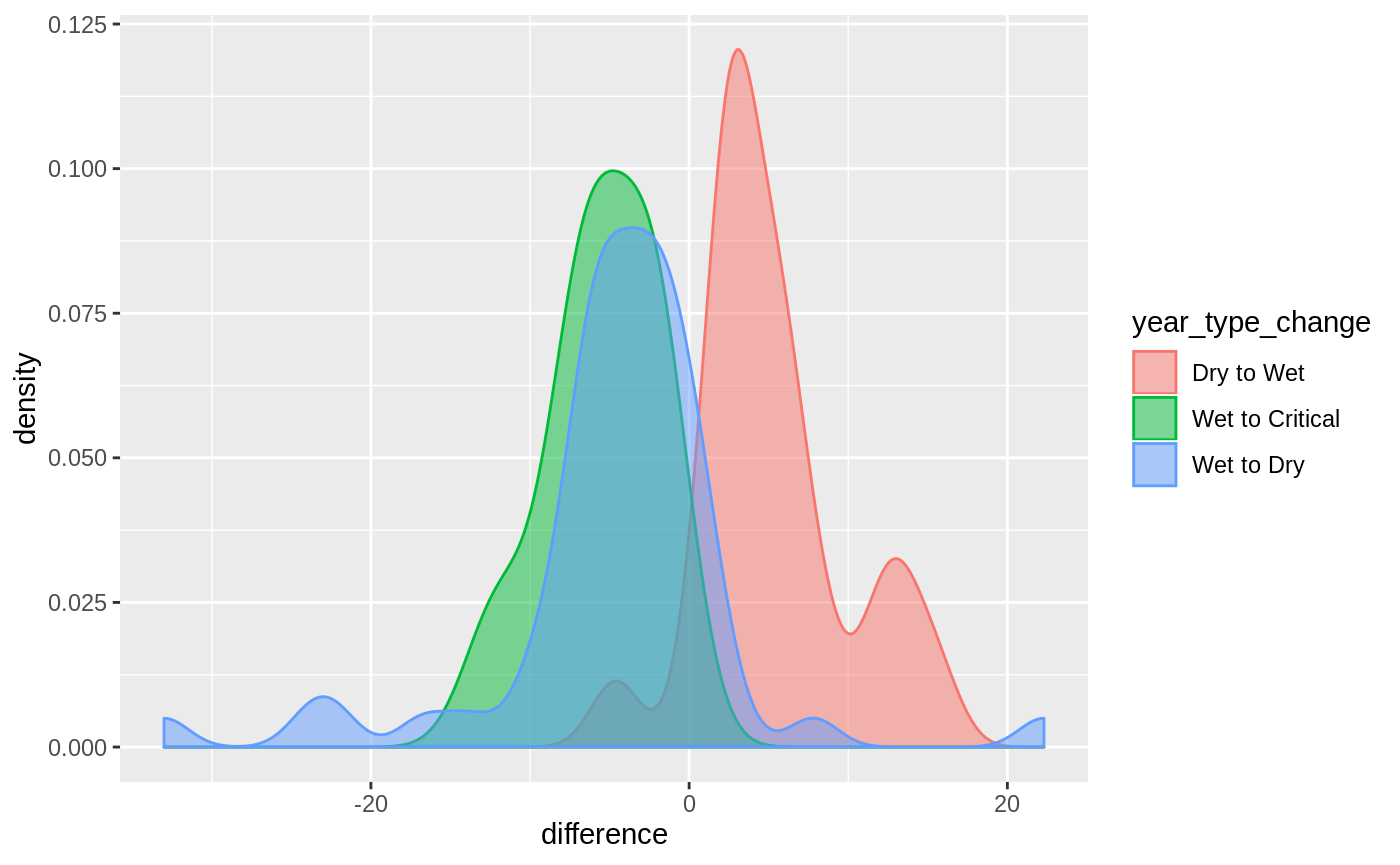
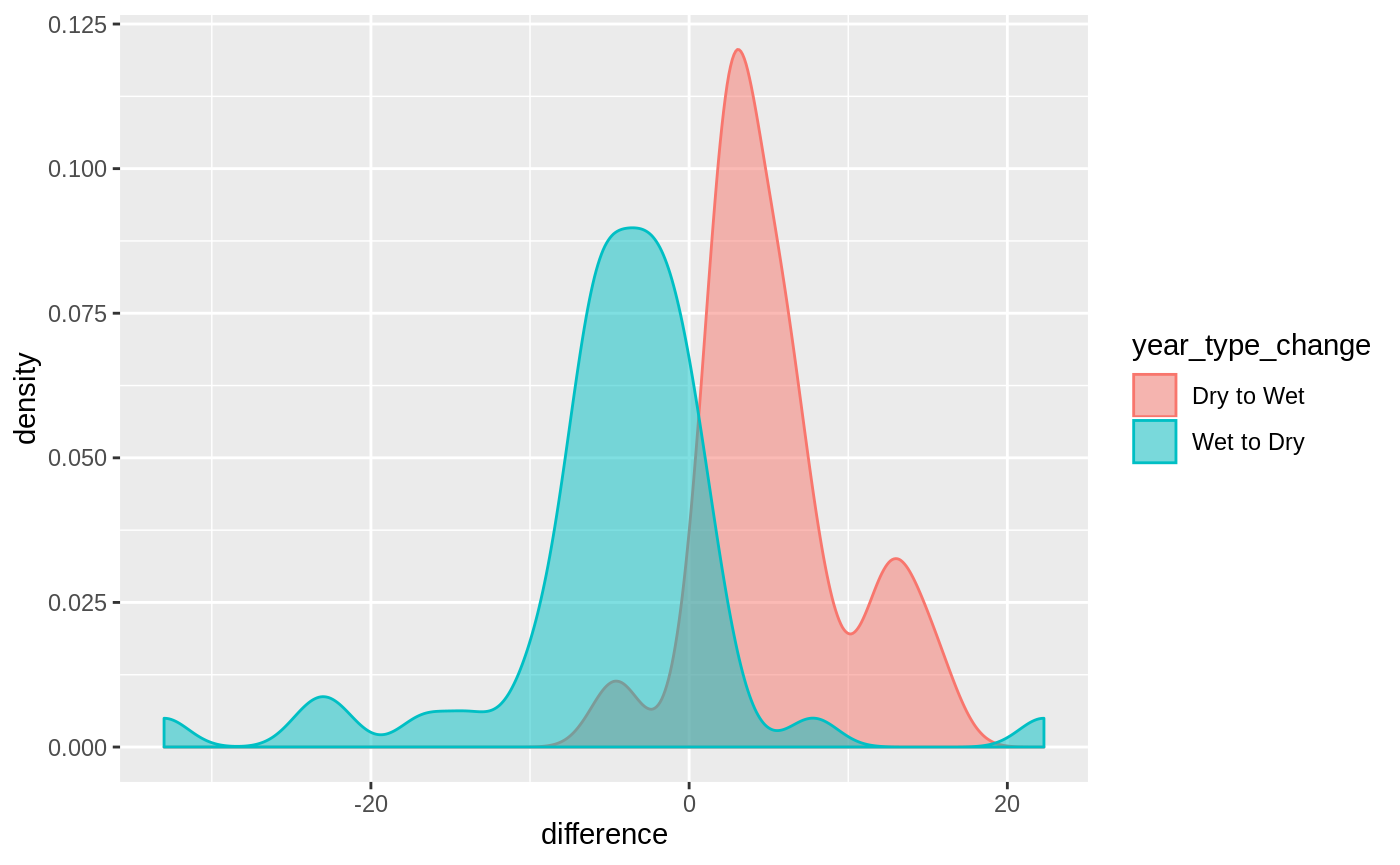
add a data section to the adobe model article

Changed region(s): [[0.0921, 0.1873, 0.645, 0.874], [0.7986, 0.3434, 0.9829, 0.5618], [0.6757, 0.8116, 0.7679, 0.874]]

diff --git a/docs/articles/groundwater-trends.html b/docs/articles/groundwater-trends.html
@@ -54,6 +54,9 @@
   </a>
   <ul class="dropdown-menu" role="menu">
 <li>
+      <a href="../articles/adobe-streamflow-model.html">Adobe Streamflow Model</a>
+    </li>
+    <li>
       <a href="../articles/groundwater-trends.html">Groundwater Trends</a>
     </li>
   </ul>
@@ -111,8 +114,8 @@
 <a class="sourceLine" id="cb2-11" data-line-number="11"><span class="st">  </span><span class="kw"><a href="https://rdrr.io/pkg/leaflet/man/leaflet.html">leaflet</a></span>() <span class="op">%&gt;%</span><span class="st"> </span></a>
 <a class="sourceLine" id="cb2-12" data-line-number="12"><span class="st">  </span><span class="kw"><a href="https://rdrr.io/pkg/leaflet/man/map-layers.html">addTiles</a></span>() <span class="op">%&gt;%</span><span class="st"> </span></a>
 <a class="sourceLine" id="cb2-13" data-line-number="13"><span class="st">  </span><span class="kw"><a href="https://rdrr.io/pkg/leaflet/man/map-layers.html">addCircleMarkers</a></span>() </a></code></pre></div>
-<div id="htmlwidget-73610c6c86a48ed30255" style="width:700px;height:432.632880098888px;" class="leaflet html-widget"></div>
-<script type="application/json" data-for="htmlwidget-73610c6c86a48ed30255">{"x":{"options":{"crs":{"crsClass":"L.CRS.EPSG3857","code":null,"proj4def":null,"projectedBounds":null,"options":{}}},"calls":[{"method":"addTiles","args":["//{s}.tile.openstreetmap.org/{z}/{x}/{y}.png",null,null,{"minZoom":0,"maxZoom":18,"tileSize":256,"subdomains":"abc","errorTileUrl":"","tms":false,"noWrap":false,"zoomOffset":0,"zoomReverse":false,"opacity":1,"zIndex":1,"detectRetina":false,"attribution":"&copy; <a href=\"http://openstreetmap.org\">OpenStreetMap<\/a> contributors, <a href=\"http://creativecommons.org/licenses/by-sa/2.0/\">CC-BY-SA<\/a>"}]},{"method":"addCircleMarkers","args":[[38.96222,38.971933,38.987505,38.9884,38.993,38.994647,38.994679,38.997183,38.997506,39.00357,39.00404,39.0044,39.007004,39.005291,39.007381,39.009652,39.01281,38.94378,38.958677,38.96434,38.9766,39.018588,39.020175],[-122.867223,-122.895905,-122.866551,-122.8936,-122.8687,-122.894686,-122.82226,-122.841335,-122.877074,-122.84271,-122.848964,-122.8434,-122.839639,-122.838267,-122.822292,-122.838395,-122.861743,-122.861025,-122.854461,-122.851532,-122.82878,-122.881273,-122.850014],10,null,null,{"interactive":true,"className":"","stroke":true,"color":"#03F","weight":5,"opacity":0.5,"fill":true,"fillColor":"#03F","fillOpacity":0.2},null,null,null,null,null,{"interactive":false,"permanent":false,"direction":"auto","opacity":1,"offset":[0,0],"textsize":"10px","textOnly":false,"className":"","sticky":true},null]}],"limits":{"lat":[38.94378,39.020175],"lng":[-122.895905,-122.82226]}},"evals":[],"jsHooks":[]}</script>
+<div id="htmlwidget-b8a9dd0e010e0fd9338a" style="width:700px;height:432.632880098888px;" class="leaflet html-widget"></div>
+<script type="application/json" data-for="htmlwidget-b8a9dd0e010e0fd9338a">{"x":{"options":{"crs":{"crsClass":"L.CRS.EPSG3857","code":null,"proj4def":null,"projectedBounds":null,"options":{}}},"calls":[{"method":"addTiles","args":["//{s}.tile.openstreetmap.org/{z}/{x}/{y}.png",null,null,{"minZoom":0,"maxZoom":18,"tileSize":256,"subdomains":"abc","errorTileUrl":"","tms":false,"noWrap":false,"zoomOffset":0,"zoomReverse":false,"opacity":1,"zIndex":1,"detectRetina":false,"attribution":"&copy; <a href=\"http://openstreetmap.org\">OpenStreetMap<\/a> contributors, <a href=\"http://creativecommons.org/licenses/by-sa/2.0/\">CC-BY-SA<\/a>"}]},{"method":"addCircleMarkers","args":[[38.96222,38.971933,38.987505,38.9884,38.993,38.994647,38.994679,38.997183,38.997506,39.00357,39.00404,39.0044,39.007004,39.005291,39.007381,39.009652,39.01281,38.94378,38.958677,38.96434,38.9766,39.018588,39.020175],[-122.867223,-122.895905,-122.866551,-122.8936,-122.8687,-122.894686,-122.82226,-122.841335,-122.877074,-122.84271,-122.848964,-122.8434,-122.839639,-122.838267,-122.822292,-122.838395,-122.861743,-122.861025,-122.854461,-122.851532,-122.82878,-122.881273,-122.850014],10,null,null,{"interactive":true,"className":"","stroke":true,"color":"#03F","weight":5,"opacity":0.5,"fill":true,"fillColor":"#03F","fillOpacity":0.2},null,null,null,null,null,{"interactive":false,"permanent":false,"direction":"auto","opacity":1,"offset":[0,0],"textsize":"10px","textOnly":false,"className":"","sticky":true},null]}],"limits":{"lat":[38.94378,39.020175],"lng":[-122.895905,-122.82226]}},"evals":[],"jsHooks":[]}</script>
 </div>
 <div id="elevation-differences" class="section level2">
 <h2 class="hasAnchor">
@@ -148,8 +151,8 @@
 <a class="sourceLine" id="cb4-12" data-line-number="12">                   <span class="dt">color=</span><span class="st">"#666666"</span>, <span class="dt">weight =</span> <span class="dv">2</span>, <span class="dt">fillOpacity =</span> <span class="dv">1</span>, </a>
 <a class="sourceLine" id="cb4-13" data-line-number="13">                   <span class="dt">popup =</span> <span class="op">~</span><span class="kw"><a href="https://rdrr.io/r/base/paste.html">paste0</a></span>(<span class="st">"Elevation Change: "</span>, <span class="kw"><a href="https://rdrr.io/r/base/Round.html">round</a></span>(difference, <span class="dv">1</span>))) <span class="op">%&gt;%</span><span class="st"> </span></a>
 <a class="sourceLine" id="cb4-14" data-line-number="14"><span class="st">  </span><span class="kw"><a href="https://rdrr.io/pkg/leaflet/man/addLegend.html">addLegend</a></span>(<span class="dt">values =</span> <span class="op">~</span>difference, <span class="dt">pal=</span>difference_<span class="dv">2008</span>_<span class="dv">2018</span>_pal)</a></code></pre></div>
-<div id="htmlwidget-5156b368bef5c72d468d" style="width:700px;height:432.632880098888px;" class="leaflet html-widget"></div>
-<script type="application/json" data-for="htmlwidget-5156b368bef5c72d468d">{"x":{"options":{"crs":{"crsClass":"L.CRS.EPSG3857","code":null,"proj4def":null,"projectedBounds":null,"options":{}}},"calls":[{"method":"addTiles","args":["//{s}.tile.openstreetmap.org/{z}/{x}/{y}.png",null,null,{"minZoom":0,"maxZoom":18,"tileSize":256,"subdomains":"abc","errorTileUrl":"","tms":false,"noWrap":false,"zoomOffset":0,"zoomReverse":false,"opacity":1,"zIndex":1,"detectRetina":false,"attribution":"&copy; <a href=\"http://openstreetmap.org\">OpenStreetMap<\/a> contributors, <a href=\"http://creativecommons.org/licenses/by-sa/2.0/\">CC-BY-SA<\/a>"}]},{"method":"addCircleMarkers","args":[[38.94378,38.958677,38.96434,38.9766,38.987505,38.9884,38.993,38.994647,38.994679,38.997183,38.997506,39.00357,39.00404,39.0044,39.007004,39.005291,39.007381,39.009652,39.01281,39.018588,39.020175],[-122.861025,-122.854461,-122.851532,-122.82878,-122.866551,-122.8936,-122.8687,-122.894686,-122.82226,-122.841335,-122.877074,-122.84271,-122.848964,-122.8434,-122.839639,-122.838267,-122.822292,-122.838395,-122.861743,-122.881273,-122.850014],10,null,null,{"interactive":true,"className":"","stroke":true,"color":"#666666","weight":2,"opacity":0.5,"fill":true,"fillColor":["#F8FCB4","#5E4FA2","#C6E89F","#E9F69C","#EAF79E","#FEDB87","#D0EC9D","#EFF9A6","#FECF7C","#C6E89F","#FFF6B0","#F1F9A8","#F3FAAC","#B4E1A2","#FFFCBA","#BFE5A0","#CFEB9D","#EFF9A6","#9E0142","#F9FDB5","#F7FCB3"],"fillOpacity":1},null,null,["Elevation Change: -2.6","Elevation Change: 20.1","Elevation Change: 3.5","Elevation Change: 0.3","Elevation Change: 0.1","Elevation Change: -9.3","Elevation Change: 2.7","Elevation Change: -0.9","Elevation Change: -10.5","Elevation Change: 3.5","Elevation Change: -5.4","Elevation Change: -1.2","Elevation Change: -1.6","Elevation Change: 4.9","Elevation Change: -4.5","Elevation Change: 4.1","Elevation Change: 2.8","Elevation Change: -0.9","Elevation Change: -28.1","Elevation Change: -2.8","Elevation Change: -2.5"],null,null,{"interactive":false,"permanent":false,"direction":"auto","opacity":1,"offset":[0,0],"textsize":"10px","textOnly":false,"className":"","sticky":true},null]},{"method":"addLegend","args":[{"colors":["#9E0142 , #C12D4A 6.43153526970982%, #EA5F48 16.8049792531123%, #FB9D58 27.1784232365148%, #FED481 37.5518672199173%, #FFF9B4 47.9253112033197%, #EAF79F 58.2987551867222%, #B3E0A3 68.6721991701247%, #6EC5A5 79.0456431535272%, #378BBC 89.4190871369297%, #5E50A3 99.7925311203321%, #5E4FA2 "],"labels":["-25","-20","-15","-10","-5","0","5","10","15","20"],"na_color":null,"na_label":"NA","opacity":0.5,"position":"topright","type":"numeric","title":"difference","extra":{"p_1":0.0643153526970982,"p_n":0.997925311203321},"layerId":null,"className":"info legend","group":null}]}],"limits":{"lat":[38.94378,39.020175],"lng":[-122.894686,-122.82226]}},"evals":[],"jsHooks":[]}</script><p>As is shown in the histogram most of values are close to zero, with two pontential outliers on both sides. To determine if these are in fact outliers we will need to explore differences across multiple decades. In the section below I do exactly this, iterate through all decades in the data compute differences at these wells.</p>
+<div id="htmlwidget-01eb0724cf143cfeeccb" style="width:700px;height:432.632880098888px;" class="leaflet html-widget"></div>
+<script type="application/json" data-for="htmlwidget-01eb0724cf143cfeeccb">{"x":{"options":{"crs":{"crsClass":"L.CRS.EPSG3857","code":null,"proj4def":null,"projectedBounds":null,"options":{}}},"calls":[{"method":"addTiles","args":["//{s}.tile.openstreetmap.org/{z}/{x}/{y}.png",null,null,{"minZoom":0,"maxZoom":18,"tileSize":256,"subdomains":"abc","errorTileUrl":"","tms":false,"noWrap":false,"zoomOffset":0,"zoomReverse":false,"opacity":1,"zIndex":1,"detectRetina":false,"attribution":"&copy; <a href=\"http://openstreetmap.org\">OpenStreetMap<\/a> contributors, <a href=\"http://creativecommons.org/licenses/by-sa/2.0/\">CC-BY-SA<\/a>"}]},{"method":"addCircleMarkers","args":[[38.94378,38.958677,38.96434,38.9766,38.987505,38.9884,38.993,38.994647,38.994679,38.997183,38.997506,39.00357,39.00404,39.0044,39.007004,39.005291,39.007381,39.009652,39.01281,39.018588,39.020175],[-122.861025,-122.854461,-122.851532,-122.82878,-122.866551,-122.8936,-122.8687,-122.894686,-122.82226,-122.841335,-122.877074,-122.84271,-122.848964,-122.8434,-122.839639,-122.838267,-122.822292,-122.838395,-122.861743,-122.881273,-122.850014],10,null,null,{"interactive":true,"className":"","stroke":true,"color":"#666666","weight":2,"opacity":0.5,"fill":true,"fillColor":["#F8FCB4","#5E4FA2","#C6E89F","#E9F69C","#EAF79E","#FEDB87","#D0EC9D","#EFF9A6","#FECF7C","#C6E89F","#FFF6B0","#F1F9A8","#F3FAAC","#B4E1A2","#FFFCBA","#BFE5A0","#CFEB9D","#EFF9A6","#9E0142","#F9FDB5","#F7FCB3"],"fillOpacity":1},null,null,["Elevation Change: -2.6","Elevation Change: 20.1","Elevation Change: 3.5","Elevation Change: 0.3","Elevation Change: 0.1","Elevation Change: -9.3","Elevation Change: 2.7","Elevation Change: -0.9","Elevation Change: -10.5","Elevation Change: 3.5","Elevation Change: -5.4","Elevation Change: -1.2","Elevation Change: -1.6","Elevation Change: 4.9","Elevation Change: -4.5","Elevation Change: 4.1","Elevation Change: 2.8","Elevation Change: -0.9","Elevation Change: -28.1","Elevation Change: -2.8","Elevation Change: -2.5"],null,null,{"interactive":false,"permanent":false,"direction":"auto","opacity":1,"offset":[0,0],"textsize":"10px","textOnly":false,"className":"","sticky":true},null]},{"method":"addLegend","args":[{"colors":["#9E0142 , #C12D4A 6.43153526970982%, #EA5F48 16.8049792531123%, #FB9D58 27.1784232365148%, #FED481 37.5518672199173%, #FFF9B4 47.9253112033197%, #EAF79F 58.2987551867222%, #B3E0A3 68.6721991701247%, #6EC5A5 79.0456431535272%, #378BBC 89.4190871369297%, #5E50A3 99.7925311203321%, #5E4FA2 "],"labels":["-25","-20","-15","-10","-5","0","5","10","15","20"],"na_color":null,"na_label":"NA","opacity":0.5,"position":"topright","type":"numeric","title":"difference","extra":{"p_1":0.0643153526970982,"p_n":0.997925311203321},"layerId":null,"className":"info legend","group":null}]}],"limits":{"lat":[38.94378,39.020175],"lng":[-122.894686,-122.82226]}},"evals":[],"jsHooks":[]}</script><p>As is shown in the histogram most of values are close to zero, with two pontential outliers on both sides. To determine if these are in fact outliers we will need to explore differences across multiple decades. In the section below I do exactly this, iterate through all decades in the data compute differences at these wells.</p>
 <div class="sourceCode" id="cb5"><pre class="sourceCode r"><code class="sourceCode r"><a class="sourceLine" id="cb5-1" data-line-number="1">decade_differences &lt;-<span class="st"> </span>purrr<span class="op">::</span><span class="kw"><a href="https://purrr.tidyverse.org/reference/map.html">map_df</a></span>(<span class="dv">1980</span><span class="op">:</span><span class="dv">2018</span>, <span class="cf">function</span>(y) {</a>
 <a class="sourceLine" id="cb5-2" data-line-number="2">  year1 &lt;-<span class="st"> </span>y <span class="op">-</span><span class="st"> </span><span class="dv">10</span></a>
 <a class="sourceLine" id="cb5-3" data-line-number="3">  year2 &lt;-<span class="st"> </span>y</a>
@@ -192,8 +195,8 @@
 <a class="sourceLine" id="cb7-18" data-line-number="18">                   <span class="dt">color =</span> <span class="st">"#666666"</span>, <span class="dt">weight =</span> <span class="dv">2</span>, </a>
 <a class="sourceLine" id="cb7-19" data-line-number="19">                   <span class="dt">popup =</span> <span class="op">~</span><span class="kw"><a href="https://rdrr.io/r/base/paste.html">paste0</a></span>(<span class="st">"Avg Difference: "</span>, <span class="kw"><a href="https://rdrr.io/r/base/Round.html">round</a></span>(avg_diff))) <span class="op">%&gt;%</span><span class="st"> </span></a>
 <a class="sourceLine" id="cb7-20" data-line-number="20"><span class="st">  </span><span class="kw"><a href="https://rdrr.io/pkg/leaflet/man/addLegend.html">addLegend</a></span>(<span class="dt">pal =</span> decade_differences_pal, <span class="dt">values =</span> <span class="op">~</span>avg_diff)</a></code></pre></div>
-<div id="htmlwidget-1711c859c47d7a71b485" style="width:700px;height:432.632880098888px;" class="leaflet html-widget"></div>
-<script type="application/json" data-for="htmlwidget-1711c859c47d7a71b485">{"x":{"options":{"crs":{"crsClass":"L.CRS.EPSG3857","code":null,"proj4def":null,"projectedBounds":null,"options":{}}},"calls":[{"method":"addTiles","args":["//{s}.tile.openstreetmap.org/{z}/{x}/{y}.png",null,null,{"minZoom":0,"maxZoom":18,"tileSize":256,"subdomains":"abc","errorTileUrl":"","tms":false,"noWrap":false,"zoomOffset":0,"zoomReverse":false,"opacity":1,"zIndex":1,"detectRetina":false,"attribution":"&copy; <a href=\"http://openstreetmap.org\">OpenStreetMap<\/a> contributors, <a href=\"http://creativecommons.org/licenses/by-sa/2.0/\">CC-BY-SA<\/a>"}]},{"method":"addCircleMarkers","args":[[38.94378,38.958677,38.96222,38.96434,38.971933,38.9766,38.987505,38.9884,38.993,38.994647,38.994679,38.997183,38.997506,39.00357,39.00404,39.0044,39.007004,39.005291,39.007381,39.009652,39.01281,39.018588,39.020175],[-122.861025,-122.854461,-122.867223,-122.851532,-122.895905,-122.82878,-122.866551,-122.8936,-122.8687,-122.894686,-122.82226,-122.841335,-122.877074,-122.84271,-122.848964,-122.8434,-122.839639,-122.838267,-122.822292,-122.838395,-122.861743,-122.881273,-122.850014],10,null,null,{"interactive":true,"className":"","stroke":true,"color":"#666666","weight":2,"opacity":0.5,"fill":true,"fillColor":["#B7E1A2","#FEE18D","#9E0142","#97D4A4","#D2ED9C","#FEE390","#5E4FA2","#F2FAAB","#5DB2AC","#97D4A4","#FEB668","#B6E1A2","#9ED8A4","#4FA0B4","#AADDA4","#4899B6","#F57345","#CAE99E","#FEC775","#FFFAB6","#F67948","#C4E79F","#F6FBB0"],"fillOpacity":1},null,null,["Avg Difference: 0","Avg Difference: -3","Avg Difference: -6","Avg Difference: 1","Avg Difference: 0","Avg Difference: -2","Avg Difference: 3","Avg Difference: -1","Avg Difference: 2","Avg Difference: 1","Avg Difference: -3","Avg Difference: 0","Avg Difference: 1","Avg Difference: 2","Avg Difference: 0","Avg Difference: 2","Avg Difference: -4","Avg Difference: 0","Avg Difference: -3","Avg Difference: -2","Avg Difference: -4","Avg Difference: 0","Avg Difference: -1"],null,null,{"interactive":false,"permanent":false,"direction":"auto","opacity":1,"offset":[0,0],"textsize":"10px","textOnly":false,"className":"","sticky":true},null]},{"method":"addLegend","args":[{"colors":["#9E0142 , #B62248 4.36315557514324%, #E4554A 14.7516212302462%, #F99052 25.1400868853491%, #FECA78 35.5285525404521%, #FFF2AA 45.917018195555%, #EFF9A6 56.305483850658%, #BFE5A0 66.6939495057609%, #7CCAA5 77.0824151608638%, #4596B7 87.4708808159668%, #595CA8 97.8593464710697%, #5E4FA2 "],"labels":["-6","-5","-4","-3","-2","-1","0","1","2","3"],"na_color":null,"na_label":"NA","opacity":0.5,"position":"topright","type":"numeric","title":"avg_diff","extra":{"p_1":0.0436315557514324,"p_n":0.978593464710697},"layerId":null,"className":"info legend","group":null}]}],"limits":{"lat":[38.94378,39.020175],"lng":[-122.895905,-122.82226]}},"evals":[],"jsHooks":[]}</script><p>We can explore if there is any trend in the data by plotting the these differences on a scatter plot.</p>
+<div id="htmlwidget-86e5d0c29d81e5ed3c05" style="width:700px;height:432.632880098888px;" class="leaflet html-widget"></div>
+<script type="application/json" data-for="htmlwidget-86e5d0c29d81e5ed3c05">{"x":{"options":{"crs":{"crsClass":"L.CRS.EPSG3857","code":null,"proj4def":null,"projectedBounds":null,"options":{}}},"calls":[{"method":"addTiles","args":["//{s}.tile.openstreetmap.org/{z}/{x}/{y}.png",null,null,{"minZoom":0,"maxZoom":18,"tileSize":256,"subdomains":"abc","errorTileUrl":"","tms":false,"noWrap":false,"zoomOffset":0,"zoomReverse":false,"opacity":1,"zIndex":1,"detectRetina":false,"attribution":"&copy; <a href=\"http://openstreetmap.org\">OpenStreetMap<\/a> contributors, <a href=\"http://creativecommons.org/licenses/by-sa/2.0/\">CC-BY-SA<\/a>"}]},{"method":"addCircleMarkers","args":[[38.94378,38.958677,38.96222,38.96434,38.971933,38.9766,38.987505,38.9884,38.993,38.994647,38.994679,38.997183,38.997506,39.00357,39.00404,39.0044,39.007004,39.005291,39.007381,39.009652,39.01281,39.018588,39.020175],[-122.861025,-122.854461,-122.867223,-122.851532,-122.895905,-122.82878,-122.866551,-122.8936,-122.8687,-122.894686,-122.82226,-122.841335,-122.877074,-122.84271,-122.848964,-122.8434,-122.839639,-122.838267,-122.822292,-122.838395,-122.861743,-122.881273,-122.850014],10,null,null,{"interactive":true,"className":"","stroke":true,"color":"#666666","weight":2,"opacity":0.5,"fill":true,"fillColor":["#B7E1A2","#FEE18D","#9E0142","#97D4A4","#D2ED9C","#FEE390","#5E4FA2","#F2FAAB","#5DB2AC","#97D4A4","#FEB668","#B6E1A2","#9ED8A4","#4FA0B4","#AADDA4","#4899B6","#F57345","#CAE99E","#FEC775","#FFFAB6","#F67948","#C4E79F","#F6FBB0"],"fillOpacity":1},null,null,["Avg Difference: 0","Avg Difference: -3","Avg Difference: -6","Avg Difference: 1","Avg Difference: 0","Avg Difference: -2","Avg Difference: 3","Avg Difference: -1","Avg Difference: 2","Avg Difference: 1","Avg Difference: -3","Avg Difference: 0","Avg Difference: 1","Avg Difference: 2","Avg Difference: 0","Avg Difference: 2","Avg Difference: -4","Avg Difference: 0","Avg Difference: -3","Avg Difference: -2","Avg Difference: -4","Avg Difference: 0","Avg Difference: -1"],null,null,{"interactive":false,"permanent":false,"direction":"auto","opacity":1,"offset":[0,0],"textsize":"10px","textOnly":false,"className":"","sticky":true},null]},{"method":"addLegend","args":[{"colors":["#9E0142 , #B62248 4.36315557514324%, #E4554A 14.7516212302462%, #F99052 25.1400868853491%, #FECA78 35.5285525404521%, #FFF2AA 45.917018195555%, #EFF9A6 56.305483850658%, #BFE5A0 66.6939495057609%, #7CCAA5 77.0824151608638%, #4596B7 87.4708808159668%, #595CA8 97.8593464710697%, #5E4FA2 "],"labels":["-6","-5","-4","-3","-2","-1","0","1","2","3"],"na_color":null,"na_label":"NA","opacity":0.5,"position":"topright","type":"numeric","title":"avg_diff","extra":{"p_1":0.0436315557514324,"p_n":0.978593464710697},"layerId":null,"className":"info legend","group":null}]}],"limits":{"lat":[38.94378,39.020175],"lng":[-122.895905,-122.82226]}},"evals":[],"jsHooks":[]}</script><p>We can explore if there is any trend in the data by plotting the these differences on a scatter plot.</p>
 <div class="sourceCode" id="cb8"><pre class="sourceCode r"><code class="sourceCode r"><a class="sourceLine" id="cb8-1" data-line-number="1">decade_differences <span class="op">%&gt;%</span><span class="st"> </span></a>
 <a class="sourceLine" id="cb8-2" data-line-number="2"><span class="st">  </span><span class="kw">ggplot</span>(<span class="kw">aes</span>(end_year, difference)) <span class="op">+</span><span class="st"> </span><span class="kw">geom_point</span>(<span class="dt">alpha=</span><span class="fl">0.5</span>) <span class="op">+</span><span class="st"> </span></a>
 <a class="sourceLine" id="cb8-3" data-line-number="3"><span class="st">  </span><span class="kw">geom_smooth</span>()</a></code></pre></div>
@@ -260,7 +263,7 @@
 <a class="sourceLine" id="cb13-2" data-line-number="2"><span class="st">  </span>waterYearType<span class="op">::</span>water_year_indices <span class="op">%&gt;%</span><span class="st"> </span></a>
 <a class="sourceLine" id="cb13-3" data-line-number="3"><span class="st">  </span><span class="kw"><a href="https://rdrr.io/r/stats/filter.html">filter</a></span>(location <span class="op">==</span><span class="st"> "Sacramento Valley"</span>) <span class="op">%&gt;%</span><span class="st"> </span><span class="kw">select</span>(<span class="dt">year =</span> WY, <span class="dt">type =</span> Yr_type)</a>
 <a class="sourceLine" id="cb13-4" data-line-number="4"></a>
-<a class="sourceLine" id="cb13-5" data-line-number="5">one_year_differences &lt;-<span class="st"> </span>purrr<span class="op">::</span><span class="kw"><a href="https://purrr.tidyverse.org/reference/map.html">map_df</a></span>(<span class="dv">1950</span><span class="op">:</span><span class="dv">2018</span>, <span class="cf">function</span>(y) {</a>
+<a class="sourceLine" id="cb13-5" data-line-number="5">one_year_differences &lt;-<span class="st"> </span>purrr<span class="op">::</span><span class="kw"><a href="https://purrr.tidyverse.org/reference/map.html">map_df</a></span>(<span class="dv">1948</span><span class="op">:</span><span class="dv">2018</span>, <span class="cf">function</span>(y) {</a>
 <a class="sourceLine" id="cb13-6" data-line-number="6">  <span class="co"># get the start and end years for the calcuation</span></a>
 <a class="sourceLine" id="cb13-7" data-line-number="7">  year1 &lt;-<span class="st"> </span>y <span class="op">-</span><span class="st"> </span><span class="dv">1</span></a>
 <a class="sourceLine" id="cb13-8" data-line-number="8">  year2 &lt;-<span class="st"> </span>y</a>
@@ -323,11 +326,28 @@
 <div id="distribution-of-elevation-changes-by-water-year-transitions" class="section level3">
 <h3 class="hasAnchor">
 <a href="#distribution-of-elevation-changes-by-water-year-transitions" class="anchor"></a>Distribution of Elevation Changes by Water Year Transitions</h3>
+<p>In this section I encode the <em>water year transition types</em>, that is I just keep track of the water year of the start year and the water year of the end year and add this as a column to the dataframe.</p>
+<p><strong>Dry to Wet and Wet to Dry Transitions</strong></p>
+<p>Here I focus on the Wet to Dry and Dry to Wet transitions.</p>
 <div class="sourceCode" id="cb17"><pre class="sourceCode r"><code class="sourceCode r"><a class="sourceLine" id="cb17-1" data-line-number="1">one_year_differences <span class="op">%&gt;%</span><span class="st"> </span></a>
-<a class="sourceLine" id="cb17-2" data-line-number="2"><span class="st">  </span><span class="kw"><a href="https://rdrr.io/r/stats/filter.html">filter</a></span>(year_type_change <span class="op">%in%</span><span class="st"> </span><span class="kw"><a href="https://rdrr.io/r/base/c.html">c</a></span>(<span class="st">"Wet to Dry"</span>, <span class="st">"Dry to Wet"</span>, </a>
-<a class="sourceLine" id="cb17-3" data-line-number="3">                                 <span class="st">"Wet to Critical"</span>)) <span class="op">%&gt;%</span><span class="st"> </span></a>
-<a class="sourceLine" id="cb17-4" data-line-number="4"><span class="st">  </span><span class="kw">ggplot</span>(<span class="kw">aes</span>(difference, <span class="dt">fill=</span>year_type_change, <span class="dt">color=</span>year_type_change)) <span class="op">+</span><span class="st"> </span><span class="kw">geom_density</span>(<span class="dt">alpha=</span><span class="fl">0.5</span>)</a></code></pre></div>
+<a class="sourceLine" id="cb17-2" data-line-number="2"><span class="st">  </span><span class="kw"><a href="https://rdrr.io/r/stats/filter.html">filter</a></span>(year_type_change <span class="op">%in%</span><span class="st"> </span><span class="kw"><a href="https://rdrr.io/r/base/c.html">c</a></span>(<span class="st">"Wet to Dry"</span>, <span class="st">"Dry to Wet"</span>)) <span class="op">%&gt;%</span><span class="st"> </span></a>
+<a class="sourceLine" id="cb17-3" data-line-number="3"><span class="st">  </span><span class="kw">ggplot</span>(<span class="kw">aes</span>(difference, <span class="dt">fill=</span>year_type_change, <span class="dt">color=</span>year_type_change)) <span class="op">+</span><span class="st"> </span><span class="kw">geom_density</span>(<span class="dt">alpha=</span><span class="fl">0.5</span>)</a></code></pre></div>
 <p><img src="groundwater-trends_files/figure-html/unnamed-chunk-17-1.png" width="700"></p>
+<p><strong>Critical to Wet and Wet to Critical Transitions</strong></p>
+<p>Here I focus on the Wet to Dry and Dry to Wet transitions.</p>
+<div class="sourceCode" id="cb18"><pre class="sourceCode r"><code class="sourceCode r"><a class="sourceLine" id="cb18-1" data-line-number="1">one_year_differences <span class="op">%&gt;%</span><span class="st"> </span></a>
+<a class="sourceLine" id="cb18-2" data-line-number="2"><span class="st">  </span><span class="kw"><a href="https://rdrr.io/r/stats/filter.html">filter</a></span>(year_type_change <span class="op">%in%</span><span class="st"> </span><span class="kw"><a href="https://rdrr.io/r/base/c.html">c</a></span>(<span class="st">"Wet to Critical"</span>, <span class="st">"Critical to Wet"</span>)) <span class="op">%&gt;%</span><span class="st"> </span></a>
+<a class="sourceLine" id="cb18-3" data-line-number="3"><span class="st">  </span><span class="kw">ggplot</span>(<span class="kw">aes</span>(difference, <span class="dt">fill=</span>year_type_change, <span class="dt">color=</span>year_type_change)) <span class="op">+</span><span class="st"> </span><span class="kw">geom_density</span>(<span class="dt">alpha=</span><span class="fl">0.5</span>)</a></code></pre></div>
+<p><img src="groundwater-trends_files/figure-html/unnamed-chunk-18-1.png" width="700"></p>
+</div>
+<div id="water-year-type-trends" class="section level3">
+<h3 class="hasAnchor">
+<a href="#water-year-type-trends" class="anchor"></a>Water Year Type Trends</h3>
+<p>Are there any trends in difference values by water year?</p>
+<div class="sourceCode" id="cb19"><pre class="sourceCode r"><code class="sourceCode r"><a class="sourceLine" id="cb19-1" data-line-number="1">one_year_differences <span class="op">%&gt;%</span><span class="st"> </span></a>
+<a class="sourceLine" id="cb19-2" data-line-number="2"><span class="st">  </span><span class="kw"><a href="https://rdrr.io/r/stats/filter.html">filter</a></span>(end_year_type <span class="op">==</span><span class="st"> "Critical"</span>) <span class="op">%&gt;%</span><span class="st"> </span></a>
+<a class="sourceLine" id="cb19-3" data-line-number="3"><span class="st">  </span><span class="kw">ggplot</span>(<span class="kw">aes</span>(end_year, difference)) <span class="op">+</span><span class="st"> </span><span class="kw">geom_point</span>()</a></code></pre></div>
+<p><img src="groundwater-trends_files/figure-html/unnamed-chunk-19-1.png" width="700"></p>
 </div>
 </div>
   </div>

diff --git a/docs/articles/adobe-streamflow-model.html b/docs/articles/adobe-streamflow-model.html
@@ -1,0 +1,204 @@
+<!DOCTYPE html>
+<!-- Generated by pkgdown: do not edit by hand --><html lang="en">
+<head>
+<meta http-equiv="Content-Type" content="text/html; charset=UTF-8">
+<meta charset="utf-8">
+<meta http-equiv="X-UA-Compatible" content="IE=edge">
+<meta name="viewport" content="width=device-width, initial-scale=1.0">
+<title>Adobe Streamflow Model • adobeCreekData</title>
+<!-- jquery --><script src="https://cdnjs.cloudflare.com/ajax/libs/jquery/3.3.1/jquery.min.js" integrity="sha256-FgpCb/KJQlLNfOu91ta32o/NMZxltwRo8QtmkMRdAu8=" crossorigin="anonymous"></script><!-- Bootstrap --><link rel="stylesheet" href="https://cdnjs.cloudflare.com/ajax/libs/twitter-bootstrap/3.3.7/css/bootstrap.min.css" integrity="sha256-916EbMg70RQy9LHiGkXzG8hSg9EdNy97GazNG/aiY1w=" crossorigin="anonymous">
+<script src="https://cdnjs.cloudflare.com/ajax/libs/twitter-bootstrap/3.3.7/js/bootstrap.min.js" integrity="sha256-U5ZEeKfGNOja007MMD3YBI0A3OSZOQbeG6z2f2Y0hu8=" crossorigin="anonymous"></script><!-- Font Awesome icons --><link rel="stylesheet" href="https://cdnjs.cloudflare.com/ajax/libs/font-awesome/5.7.1/css/all.min.css" integrity="sha256-nAmazAk6vS34Xqo0BSrTb+abbtFlgsFK7NKSi6o7Y78=" crossorigin="anonymous">
+<link rel="stylesheet" href="https://cdnjs.cloudflare.com/ajax/libs/font-awesome/5.7.1/css/v4-shims.min.css" integrity="sha256-6qHlizsOWFskGlwVOKuns+D1nB6ssZrHQrNj1wGplHc=" crossorigin="anonymous">
+<!-- clipboard.js --><script src="https://cdnjs.cloudflare.com/ajax/libs/clipboard.js/2.0.4/clipboard.min.js" integrity="sha256-FiZwavyI2V6+EXO1U+xzLG3IKldpiTFf3153ea9zikQ=" crossorigin="anonymous"></script><!-- headroom.js --><script src="https://cdnjs.cloudflare.com/ajax/libs/headroom/0.9.4/headroom.min.js" integrity="sha256-DJFC1kqIhelURkuza0AvYal5RxMtpzLjFhsnVIeuk+U=" crossorigin="anonymous"></script><script src="https://cdnjs.cloudflare.com/ajax/libs/headroom/0.9.4/jQuery.headroom.min.js" integrity="sha256-ZX/yNShbjqsohH1k95liqY9Gd8uOiE1S4vZc+9KQ1K4=" crossorigin="anonymous"></script><!-- pkgdown --><link href="../pkgdown.css" rel="stylesheet">
+<script src="../pkgdown.js"></script><meta property="og:title" content="Adobe Streamflow Model">
+<meta property="og:description" content="">
+<meta name="twitter:card" content="summary">
+<!-- mathjax --><script src="https://cdnjs.cloudflare.com/ajax/libs/mathjax/2.7.5/MathJax.js" integrity="sha256-nvJJv9wWKEm88qvoQl9ekL2J+k/RWIsaSScxxlsrv8k=" crossorigin="anonymous"></script><script src="https://cdnjs.cloudflare.com/ajax/libs/mathjax/2.7.5/config/TeX-AMS-MML_HTMLorMML.js" integrity="sha256-84DKXVJXs0/F8OTMzX4UR909+jtl4G7SPypPavF+GfA=" crossorigin="anonymous"></script><!--[if lt IE 9]>
+<script src="https://oss.maxcdn.com/html5shiv/3.7.3/html5shiv.min.js"></script>
+<script src="https://oss.maxcdn.com/respond/1.4.2/respond.min.js"></script>
+<![endif]-->
+</head>
+<body>
+    <div class="container template-article">
+      <header><div class="navbar navbar-default navbar-fixed-top" role="navigation">
+  <div class="container">
+    <div class="navbar-header">
+      <button type="button" class="navbar-toggle collapsed" data-toggle="collapse" data-target="#navbar" aria-expanded="false">
+        <span class="sr-only">Toggle navigation</span>
+        <span class="icon-bar"></span>
+        <span class="icon-bar"></span>
+        <span class="icon-bar"></span>
+      </button>
+      <span class="navbar-brand">
+        <a class="navbar-link" href="../index.html">adobeCreekData</a>
+        <span class="version label label-default" data-toggle="tooltip" data-placement="bottom" title="Released version">0.1.0</span>
+      </span>
+    </div>
+
+    <div id="navbar" class="navbar-collapse collapse">
+      <ul class="nav navbar-nav">
+<li>
+  <a href="../index.html">
+    <span class="fas fa fas fa-home fa-lg"></span>
+     
+  </a>
+</li>
+<li>
+  <a href="../reference/index.html">Reference</a>
+</li>
+<li class="dropdown">
+  <a href="#" class="dropdown-toggle" data-toggle="dropdown" role="button" aria-expanded="false">
+    Articles
+     
+    <span class="caret"></span>
+  </a>
+  <ul class="dropdown-menu" role="menu">
+<li>
+      <a href="../articles/adobe-streamflow-model.html">Adobe Streamflow Model</a>
+    </li>
+    <li>
+      <a href="../articles/groundwater-trends.html">Groundwater Trends</a>
+    </li>
+  </ul>
+</li>
+      </ul>
+<ul class="nav navbar-nav navbar-right"></ul>
+</div>
+<!--/.nav-collapse -->
+  </div>
+<!--/.container -->
+</div>
+<!--/.navbar -->
+
+      
+
+      </header><div class="row">
+  <div class="col-md-9 contents">
+    <div class="page-header toc-ignore">
+      <h1>Adobe Streamflow Model</h1>
+            
+      
+      
+      <div class="hidden name"><code>adobe-streamflow-model.Rmd</code></div>
+
+    </div>
+
+    
+    
+<div class="sourceCode" id="cb1"><pre class="sourceCode r"><code class="sourceCode r"><a class="sourceLine" id="cb1-1" data-line-number="1"><span class="kw"><a href="https://rdrr.io/r/base/library.html">library</a></span>(adobeCreekData)</a>
+<a class="sourceLine" id="cb1-2" data-line-number="2"><span class="kw"><a href="https://rdrr.io/r/base/library.html">library</a></span>(tidyverse)</a>
+<a class="sourceLine" id="cb1-3" data-line-number="3"><span class="co">#&gt; ── Attaching packages ─────────────────────────────────────────────────────── tidyverse 1.2.1 ──</span></a>
+<a class="sourceLine" id="cb1-4" data-line-number="4"><span class="co">#&gt; ✔ ggplot2 3.2.1     ✔ purrr   0.3.2</span></a>
+<a class="sourceLine" id="cb1-5" data-line-number="5"><span class="co">#&gt; ✔ tibble  2.1.3     ✔ dplyr   0.8.3</span></a>
+<a class="sourceLine" id="cb1-6" data-line-number="6"><span class="co">#&gt; ✔ tidyr   1.0.0     ✔ stringr 1.4.0</span></a>
+<a class="sourceLine" id="cb1-7" data-line-number="7"><span class="co">#&gt; ✔ readr   1.3.1     ✔ forcats 0.4.0</span></a>
+<a class="sourceLine" id="cb1-8" data-line-number="8"><span class="co">#&gt; ── Conflicts ────────────────────────────────────────────────────────── tidyverse_conflicts() ──</span></a>
+<a class="sourceLine" id="cb1-9" data-line-number="9"><span class="co">#&gt; ✖ dplyr::filter() masks stats::filter()</span></a>
+<a class="sourceLine" id="cb1-10" data-line-number="10"><span class="co">#&gt; ✖ dplyr::lag()    masks stats::lag()</span></a>
+<a class="sourceLine" id="cb1-11" data-line-number="11"><span class="kw"><a href="https://rdrr.io/r/base/library.html">library</a></span>(lubridate)</a>
+<a class="sourceLine" id="cb1-12" data-line-number="12"><span class="co">#&gt; </span></a>
+<a class="sourceLine" id="cb1-13" data-line-number="13"><span class="co">#&gt; Attaching package: 'lubridate'</span></a>
+<a class="sourceLine" id="cb1-14" data-line-number="14"><span class="co">#&gt; The following object is masked from 'package:base':</span></a>
+<a class="sourceLine" id="cb1-15" data-line-number="15"><span class="co">#&gt; </span></a>
+<a class="sourceLine" id="cb1-16" data-line-number="16"><span class="co">#&gt;     date</span></a></code></pre></div>
+<div id="introdcuction" class="section level1">
+<h1 class="hasAnchor">
+<a href="#introdcuction" class="anchor"></a>Introdcuction</h1>
+<p>Give a little intro about the the purpose of the model and the overall results.</p>
+</div>
+<div id="data" class="section level1">
+<h1 class="hasAnchor">
+<a href="#data" class="anchor"></a>Data</h1>
+<p>The data being used to develop this model is USGS streamflow data. The following gages were used:</p>
+<ul>
+<li>Highland Creek - 11449010 (1966-1977)</li>
+<li>Kelsey Creek - 11449500 (1970-present)</li>
+<li>Adobe Creek - 11448500 (1954-1978)</li>
+</ul>
+<p>The Highland Creek gage is below Highland dam, the Adobe Creek gage is above the Adobe Creek dam. All this data is bundled within this data package, more information for each is available with:</p>
+<div class="sourceCode" id="cb2"><pre class="sourceCode r"><code class="sourceCode r"><a class="sourceLine" id="cb2-1" data-line-number="1">?adobeCreekData<span class="op">::</span>kelsey_creek_flow</a></code></pre></div>
+<p>In order to calculate Adobe Creek <strong>after</strong> the Highland Creek junction we summed up the two flows.</p>
+<div class="sourceCode" id="cb3"><pre class="sourceCode r"><code class="sourceCode r"><a class="sourceLine" id="cb3-1" data-line-number="1">adobe_creek_downstream &lt;-<span class="st"> </span></a>
+<a class="sourceLine" id="cb3-2" data-line-number="2"><span class="st">  </span>adobeCreekData<span class="op">::</span>adobe_creek_flow <span class="op">%&gt;%</span><span class="st"> </span></a>
+<a class="sourceLine" id="cb3-3" data-line-number="3"><span class="st">  </span><span class="kw">left_join</span>(adobeCreekData<span class="op">::</span>highland_creek_flow, <span class="dt">by=</span><span class="kw"><a href="https://rdrr.io/r/base/c.html">c</a></span>(<span class="st">"date"</span> =<span class="st"> "date"</span>), </a>
+<a class="sourceLine" id="cb3-4" data-line-number="4">            <span class="dt">suffix =</span> <span class="kw"><a href="https://rdrr.io/r/base/c.html">c</a></span>(<span class="st">"_adobe"</span>, <span class="st">"_highland"</span>)) <span class="op">%&gt;%</span><span class="st"> </span></a>
+<a class="sourceLine" id="cb3-5" data-line-number="5"><span class="st">  </span><span class="kw">select</span>(date, flow_cfs_highland, flow_cfs_adobe) <span class="op">%&gt;%</span><span class="st"> </span></a>
+<a class="sourceLine" id="cb3-6" data-line-number="6"><span class="st">  </span><span class="kw">mutate</span>(<span class="dt">adobe_downstream_cfs =</span> flow_cfs_highland <span class="op">+</span><span class="st"> </span>flow_cfs_adobe) <span class="op">%&gt;%</span><span class="st"> </span></a>
+<a class="sourceLine" id="cb3-7" data-line-number="7"><span class="st">  </span><span class="kw"><a href="https://rdrr.io/r/stats/filter.html">filter</a></span>(<span class="op">!</span><span class="kw"><a href="https://rdrr.io/r/base/NA.html">is.na</a></span>(adobe_downstream_cfs))</a></code></pre></div>
+<p>This resulted in the following streamflow</p>
+<div class="sourceCode" id="cb4"><pre class="sourceCode r"><code class="sourceCode r"><a class="sourceLine" id="cb4-1" data-line-number="1">adobe_creek_downstream <span class="op">%&gt;%</span><span class="st"> </span></a>
+<a class="sourceLine" id="cb4-2" data-line-number="2"><span class="st">  </span><span class="kw"><a href="https://rdrr.io/r/stats/filter.html">filter</a></span>(<span class="kw"><a href="http://lubridate.tidyverse.org/reference/year.html">year</a></span>(date) <span class="op">==</span><span class="st"> </span><span class="dv">1975</span>, <span class="kw"><a href="http://lubridate.tidyverse.org/reference/month.html">month</a></span>(date) <span class="op">%in%</span><span class="st"> </span><span class="dv">2</span><span class="op">:</span><span class="dv">8</span>) <span class="op">%&gt;%</span><span class="st"> </span></a>
+<a class="sourceLine" id="cb4-3" data-line-number="3"><span class="st">  </span><span class="kw">ggplot</span>() <span class="op">+</span><span class="st"> </span></a>
+<a class="sourceLine" id="cb4-4" data-line-number="4"><span class="st">  </span><span class="kw">geom_line</span>(<span class="kw">aes</span>(date, adobe_downstream_cfs, <span class="dt">color=</span><span class="st">"Adobe Downstream"</span>)) <span class="op">+</span><span class="st"> </span></a>
+<a class="sourceLine" id="cb4-5" data-line-number="5"><span class="st">  </span><span class="kw">geom_line</span>(<span class="kw">aes</span>(date, flow_cfs_highland, <span class="dt">color=</span><span class="st">"Highland Creek"</span>)) <span class="op">+</span><span class="st"> </span></a>
+<a class="sourceLine" id="cb4-6" data-line-number="6"><span class="st">  </span><span class="kw">geom_line</span>(<span class="kw">aes</span>(date, flow_cfs_adobe, <span class="dt">color=</span><span class="st">"Adobe Creek"</span>)) <span class="op">+</span><span class="st"> </span></a>
+<a class="sourceLine" id="cb4-7" data-line-number="7"><span class="st">  </span><span class="kw">labs</span>(<span class="dt">x =</span> <span class="st">"Date"</span>, <span class="dt">y =</span> <span class="st">"Flow (cfs)"</span>, <span class="dt">color=</span><span class="st">""</span>)</a></code></pre></div>
+<p><img src="adobe-streamflow-model_files/figure-html/unnamed-chunk-4-1.png" width="700"></p>
+</div>
+<div id="modeling-approach" class="section level1">
+<h1 class="hasAnchor">
+<a href="#modeling-approach" class="anchor"></a>Modeling Approach</h1>
+</div>
+<div id="modeling" class="section level1">
+<h1 class="hasAnchor">
+<a href="#modeling" class="anchor"></a>Modeling</h1>
+<div id="model-training" class="section level2">
+<h2 class="hasAnchor">
+<a href="#model-training" class="anchor"></a>Model Training</h2>
+</div>
+<div id="model-evaluation" class="section level2">
+<h2 class="hasAnchor">
+<a href="#model-evaluation" class="anchor"></a>Model Evaluation</h2>
+</div>
+<div id="results" class="section level2">
+<h2 class="hasAnchor">
+<a href="#results" class="anchor"></a>Results</h2>
+</div>
+</div>
+<div id="conclusion" class="section level1">
+<h1 class="hasAnchor">
+<a href="#conclusion" class="anchor"></a>Conclusion</h1>
+</div>
+  </div>
+
+  <div class="col-md-3 hidden-xs hidden-sm" id="sidebar">
+
+        <div id="tocnav">
+      <h2 class="hasAnchor">
+<a href="#tocnav" class="anchor"></a>Contents</h2>
+      <ul class="nav nav-pills nav-stacked">
+<li><a href="#introdcuction">Introdcuction</a></li>
+      <li><a href="#data">Data</a></li>
+      <li><a href="#modeling-approach">Modeling Approach</a></li>
+      <li>
+<a href="#modeling">Modeling</a><ul class="nav nav-pills nav-stacked">
+<li><a href="#model-training">Model Training</a></li>
+      <li><a href="#model-evaluation">Model Evaluation</a></li>
+      <li><a href="#results">Results</a></li>
+      </ul>
+</li>
+      <li><a href="#conclusion">Conclusion</a></li>
+      </ul>
+</div>
+      </div>
+
+</div>
+
+
+
+      <footer><div class="copyright">
+  <p>Developed by Emanuel Rodriguez.</p>
+</div>
+
+<div class="pkgdown">
+  <p>Site built with <a href="https://pkgdown.r-lib.org/">pkgdown</a> 1.4.1.</p>
+</div>
+
+      </footer>
+</div>
+
+  
+
+
+  </body>
+</html>

diff --git a/docs/articles/index.html b/docs/articles/index.html
@@ -90,6 +90,9 @@
   </a>
   <ul class="dropdown-menu" role="menu">
     <li>
+      <a href="../articles/adobe-streamflow-model.html">Adobe Streamflow Model</a>
+    </li>
+    <li>
       <a href="../articles/groundwater-trends.html">Groundwater Trends</a>
     </li>
   </ul>
@@ -118,6 +121,7 @@
       <p class="section-desc"></p>
 
       <ul>
+        <li><a href="adobe-streamflow-model.html">Adobe Streamflow Model</a></li>
         <li><a href="groundwater-trends.html">Groundwater Trends</a></li>
       </ul>
     </div>

diff --git a/docs/reference/bvr_water_quality.html b/docs/reference/bvr_water_quality.html
@@ -106,6 +106,9 @@ contains only analytes that were measured at least 10 times.
   </a>
   <ul class="dropdown-menu" role="menu">
     <li>
+      <a href="../articles/adobe-streamflow-model.html">Adobe Streamflow Model</a>
+    </li>
+    <li>
       <a href="../articles/groundwater-trends.html">Groundwater Trends</a>
     </li>
   </ul>

diff --git a/docs/reference/groundwater_levels.html b/docs/reference/groundwater_levels.html
@@ -103,6 +103,9 @@ Big Valley Water Basin. The data was obtained from CASGEM.
   </a>
   <ul class="dropdown-menu" role="menu">
     <li>
+      <a href="../articles/adobe-streamflow-model.html">Adobe Streamflow Model</a>
+    </li>
+    <li>
       <a href="../articles/groundwater-trends.html">Groundwater Trends</a>
     </li>
   </ul>

diff --git a/docs/reference/cache_creek_flow.html b/docs/reference/cache_creek_flow.html
@@ -100,6 +100,9 @@ reported as the daily average.
   </a>
   <ul class="dropdown-menu" role="menu">
     <li>
+      <a href="../articles/adobe-streamflow-model.html">Adobe Streamflow Model</a>
+    </li>
+    <li>
       <a href="../articles/groundwater-trends.html">Groundwater Trends</a>
     </li>
   </ul>

diff --git a/docs/reference/kelsey_creek_flow.html b/docs/reference/kelsey_creek_flow.html
@@ -100,6 +100,9 @@ reported as the daily average.
   </a>
   <ul class="dropdown-menu" role="menu">
     <li>
+      <a href="../articles/adobe-streamflow-model.html">Adobe Streamflow Model</a>
+    </li>
+    <li>
       <a href="../articles/groundwater-trends.html">Groundwater Trends</a>
     </li>
   </ul>

diff --git a/docs/reference/ceden_water_quality.html b/docs/reference/ceden_water_quality.html
@@ -105,6 +105,9 @@ obtained through CEDEN.
   </a>
   <ul class="dropdown-menu" role="menu">
     <li>
+      <a href="../articles/adobe-streamflow-model.html">Adobe Streamflow Model</a>
+    </li>
+    <li>
       <a href="../articles/groundwater-trends.html">Groundwater Trends</a>
     </li>
   </ul>

diff --git a/docs/reference/bvr_stations.html b/docs/reference/bvr_stations.html
@@ -102,6 +102,9 @@
   </a>
   <ul class="dropdown-menu" role="menu">
     <li>
+      <a href="../articles/adobe-streamflow-model.html">Adobe Streamflow Model</a>
+    </li>
+    <li>
       <a href="../articles/groundwater-trends.html">Groundwater Trends</a>
     </li>
   </ul>

diff --git a/docs/reference/cdfa_water_quality.html b/docs/reference/cdfa_water_quality.html
@@ -102,6 +102,9 @@
   </a>
   <ul class="dropdown-menu" role="menu">
     <li>
+      <a href="../articles/adobe-streamflow-model.html">Adobe Streamflow Model</a>
+    </li>
+    <li>
       <a href="../articles/groundwater-trends.html">Groundwater Trends</a>
     </li>
   </ul>

diff --git a/docs/reference/flow_stations.html b/docs/reference/flow_stations.html
@@ -100,6 +100,9 @@
   </a>
   <ul class="dropdown-menu" role="menu">
     <li>
+      <a href="../articles/adobe-streamflow-model.html">Adobe Streamflow Model</a>
+    </li>
+    <li>
       <a href="../articles/groundwater-trends.html">Groundwater Trends</a>
     </li>
   </ul>

diff --git a/docs/reference/groundwater_stations.html b/docs/reference/groundwater_stations.html
@@ -103,6 +103,9 @@
   </a>
   <ul class="dropdown-menu" role="menu">
     <li>
+      <a href="../articles/adobe-streamflow-model.html">Adobe Streamflow Model</a>
+    </li>
+    <li>
       <a href="../articles/groundwater-trends.html">Groundwater Trends</a>
     </li>
   </ul>
